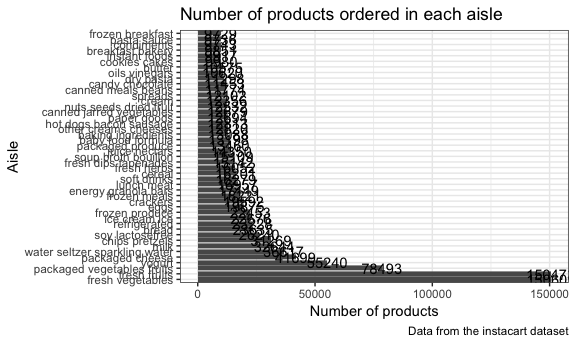
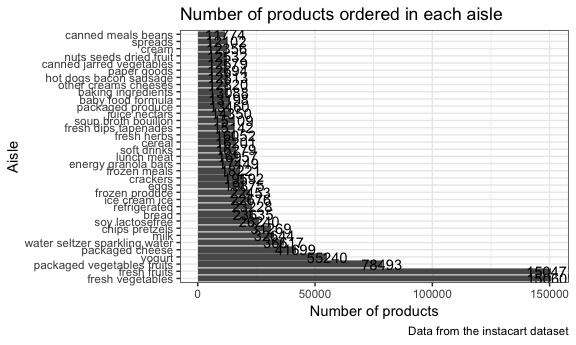
Made some changes to the plots

Changed region(s): [[0.0312, 0.087, 1.0, 0.8406]]

diff --git a/p8105_hw3_xz2788.md b/p8105_hw3_xz2788.md
@@ -204,16 +204,17 @@ There are in total 134 aisles and the aisle of "fresh vegetables" is the most it
 Plot of the number of items ordered in each aisle
 -------------------------------------------------
 
-Because of the large sample, divide into 3 groups for plotting
+Because of the large sample, divide into 4 groups for plotting
 
 ``` r
 desc_instacart = instacart %>% 
   group_by(aisle) %>% 
   summarize(n_items = n()) %>% 
   arrange(-n_items) 
-group_1 = desc_instacart[1:45,]
-group_2 = desc_instacart[45:90,]
-group_3 = desc_instacart[91:134,]
+group_1 = desc_instacart[1:35,]
+group_2 = desc_instacart[36:70,]
+group_3 = desc_instacart[71:106,]
+group_4 = desc_instacart[107:134,]
 ```
 
 Plotting three plot seperately and then combine
@@ -271,6 +272,24 @@ group_3 %>%
 ```
 
 <img src="p8105_hw3_xz2788_files/figure-markdown_github/plot_ailse-3.png" width="90%" />
+
+``` r
+group_4 %>%  
+  transform(aisle = reorder(aisle, -n_items)) %>% 
+  ggplot(aes(x = aisle, y = n_items)) +
+  geom_bar(stat = "identity") +
+  theme_bw() +
+  geom_text(aes(label = n_items)) +
+  labs(
+    title = "Number of products ordered in each aisle",
+    x = "Aisle",
+    y = "Number of products",
+    caption = "Data from the instacart dataset"
+  ) +
+  coord_flip()
+```
+
+<img src="p8105_hw3_xz2788_files/figure-markdown_github/plot_ailse-4.png" width="90%" />
 
 Comment: The most popular aisles are "fresh fruits" and "fresh vegetables", there are over 150000 items ordered from each aisle. The least popular aisle is "beauty" which is less than 300.
 
@@ -410,8 +429,6 @@ tmax_tmin_plot = ny_noaa_tidy %>%
   ) 
 ```
 
-From the hex plot, we can see that the highest density is in the middle when max temperature is around 5ºC while the minimum temperature is around 0ºC and also the max temperature is around 25ºC when the minimum is around 15ºC.
-
 Making a plot for distribution of snowfall
 ------------------------------------------
 
@@ -433,6 +450,7 @@ snowfall_plot = ny_noaa_tidy %>%
 ```
 
 Gather the two plots together
+-----------------------------
 
 ``` r
 tmax_tmin_plot + snowfall_plot
@@ -440,4 +458,6 @@ tmax_tmin_plot + snowfall_plot
 
     ## Warning: Removed 1136276 rows containing non-finite values (stat_binhex).
 
-<img src="p8105_hw3_xz2788_files/figure-markdown_github/unnamed-chunk-5-1.png" width="90%" />
+<img src="p8105_hw3_xz2788_files/figure-markdown_github/two_panel_plot-1.png" width="90%" />
+
+Comments: From the hex plot of temperature, we can see that the highest density is in the middle when max temperature is around 5ºC while the minimum temperature is around 0ºC and also the max temperature is around 25ºC when the minimum is around 15ºC. From the density plot of snowfall, we can see the most frequent amount of snowfall were around 10mm and 25mm, then followed by 50mm and 75mm. The distributions of snowfall over the year were almost the same through years from 1981 to 2010.
